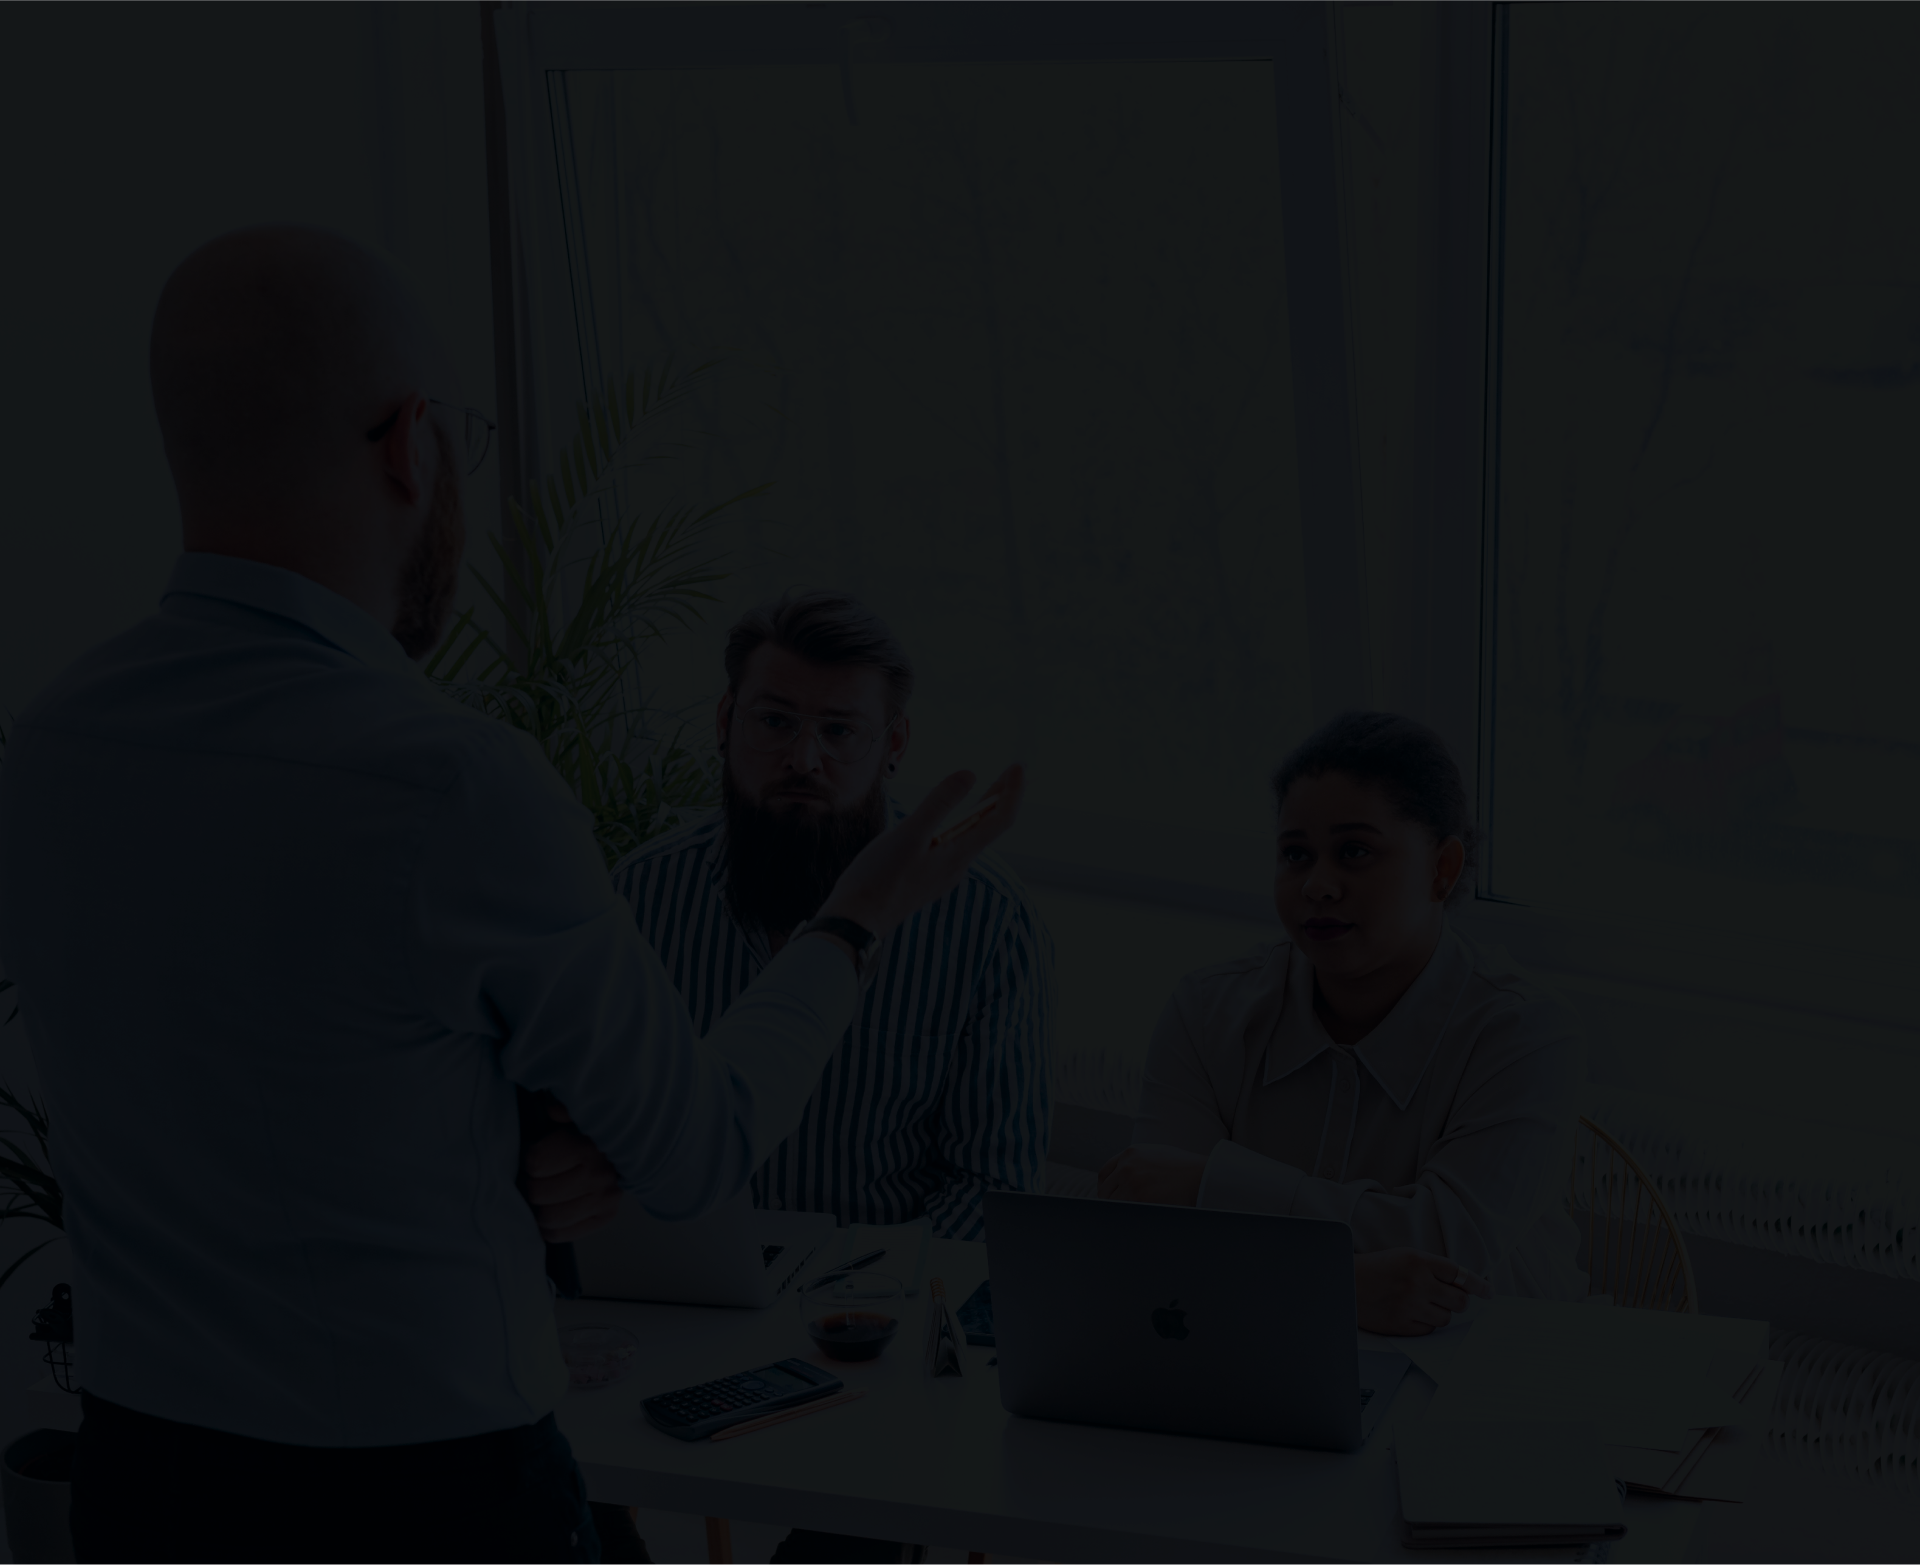
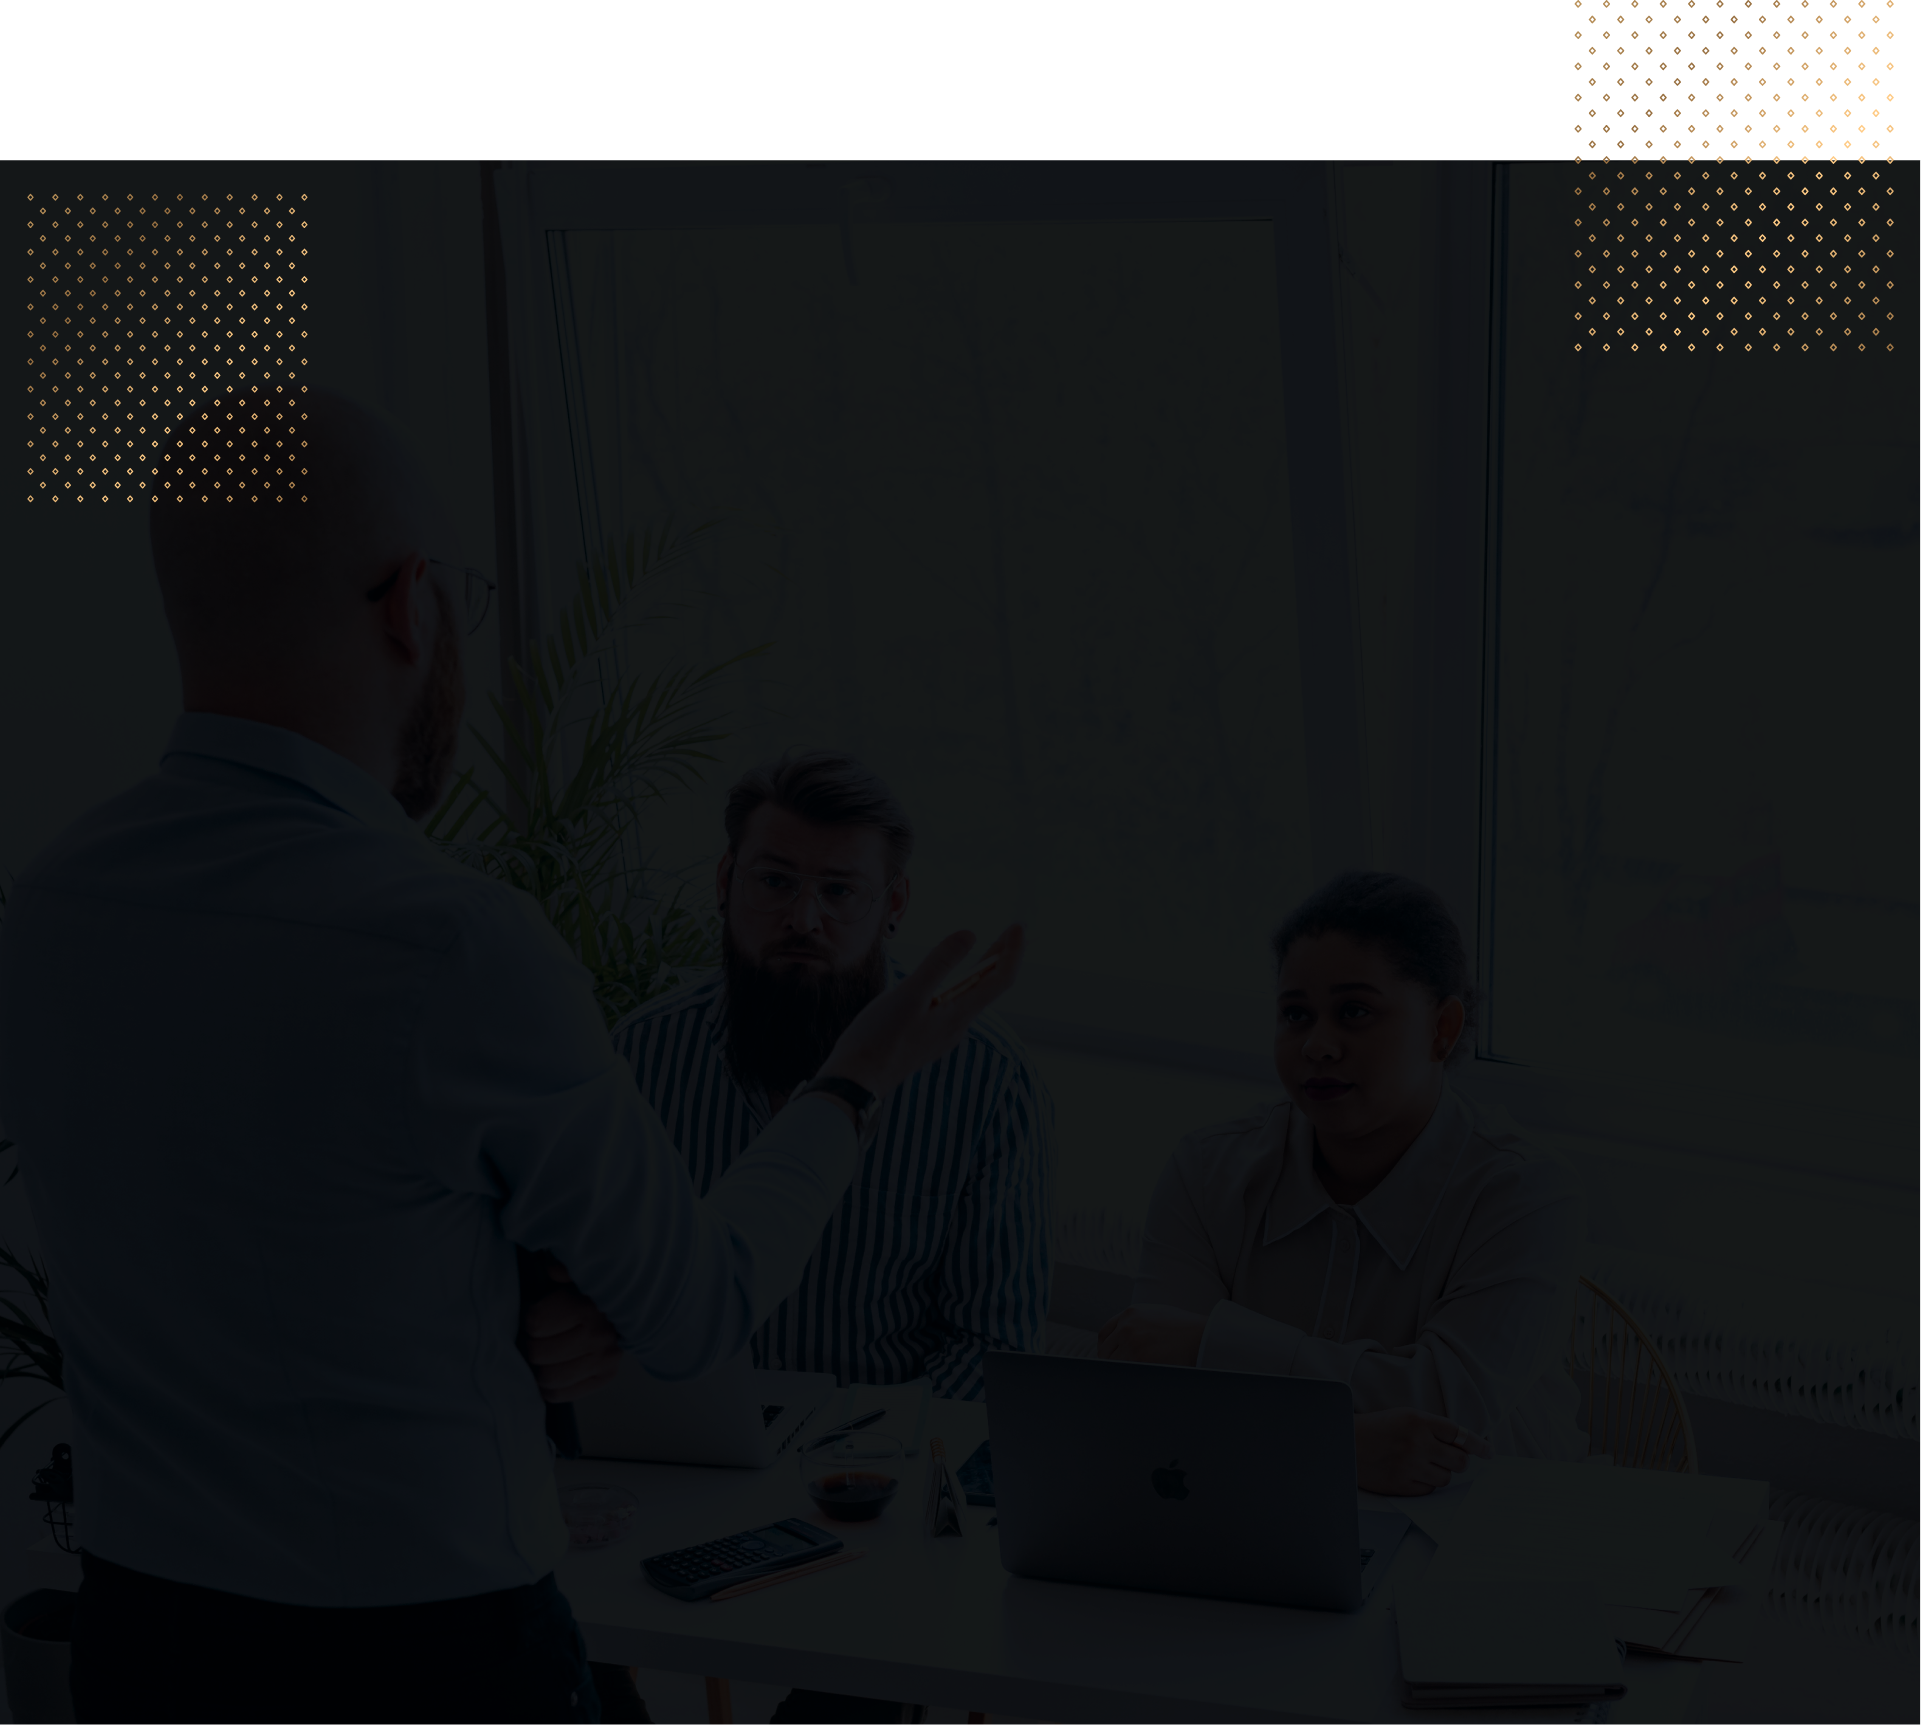
ajuste fundo serviços dois

diff --git a/style.css b/style.css
@@ -316,11 +316,14 @@ video {
     display: flex;
     justify-content: center;
     align-items: center;
-    background-color: #151515;
     background-image: url(fundo-servicos-dois.png);
+    background-repeat: no-repeat;
     padding-top: 200px;
     padding-bottom: 200px;
 }
+
+
+
 
 .card-servicos-dois {
     background-color: white;
@@ -331,7 +334,7 @@ video {
     max-width: 950px;
     padding-left: 5px;
     padding-top: 20px;
-    margin-top: 10px;
+    margin-top: 200px;
     padding-bottom: 20px;
     margin-bottom: 10px;
     border-radius: 20px;
